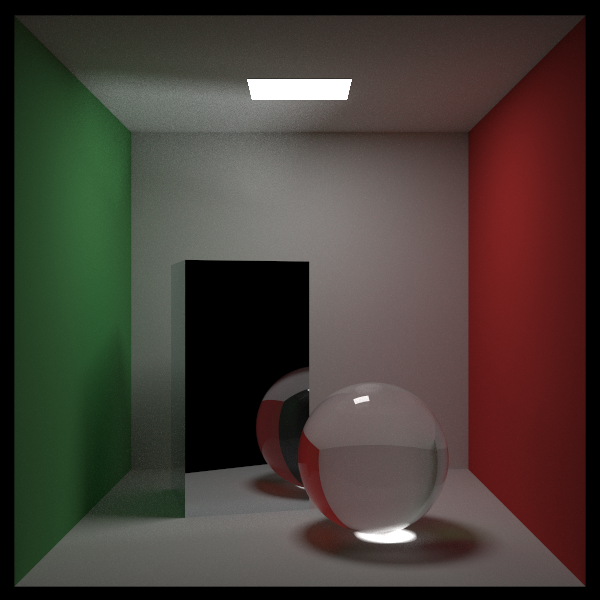
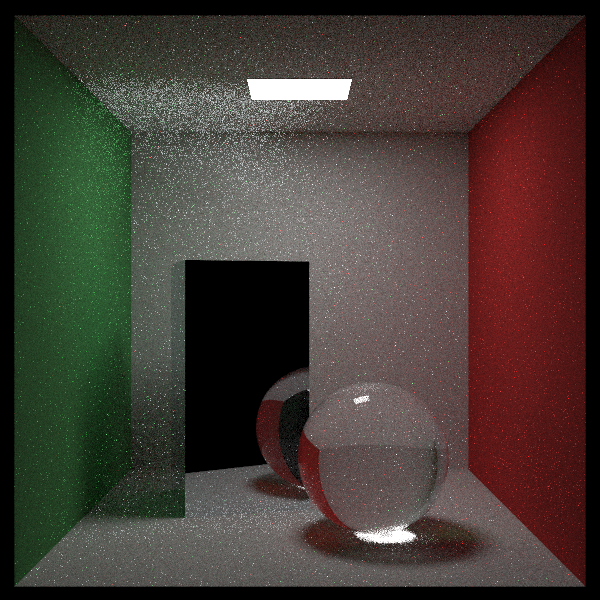
Use samples_per_pixel

diff --git a/src/main.rs b/src/main.rs
@@ -791,7 +791,7 @@ fn main() {
         5 => {
             aspect_ratio = 1.0;
             image_width = 600;
-            samples_per_pixel = 10000;
+            samples_per_pixel = 100;
             (
                 cornel_box(&mut rng),
                 Color(vec3(0.0, 0.0, 0.0)),
